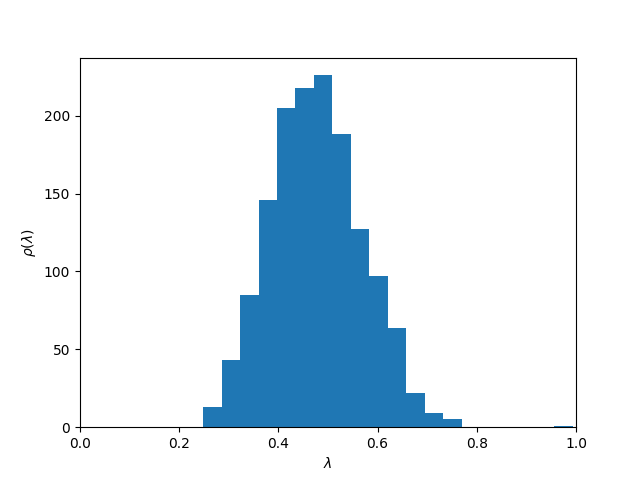
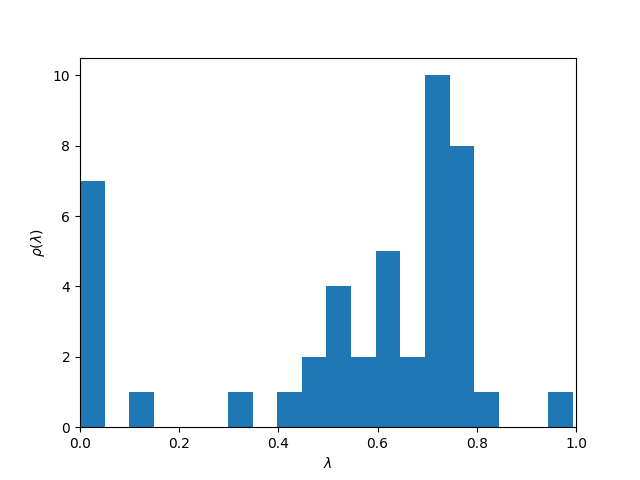
Storage capacity

diff --git a/final_sparse_matrices.py b/final_sparse_matrices.py
@@ -56,6 +56,20 @@ sig_i_k_plot = np.zeros((nSnap, N*(S+1)))
 analyseTime = False
 analyseDivergence = False
 
+# Plot parameters
+lamb = []
+tTrans = []
+retrieved_saved = []
+max_m_mu_saved = []
+max2_m_mu_saved = []
+outsider_saved = []
+indTrans = 0
+cpt_idle = 0
+d12 = 0
+l = tSim
+eta = 0
+ind_max_prev = -1
+
 for iT in tqdm(range(nT)):
     iteration.iterate(J_i_j_k_l, delta__ksi_i_mu__k, tS[iT], analyseTime,
                       analyseDivergence, sig_i_k, r_i_k, r_i_S_A,
@@ -67,6 +81,34 @@ for iT in tqdm(range(nT)):
     theta_i_k_plot[iT, :] = theta_i_k
     sig_i_k_plot[iT, :] = sig_i_k
 
+    if tS[iT] > t_0 + tau:
+        ind_max = np.argmax(m_mu)
+        max_m_mu = m_mu[ind_max]
+        m_mu[ind_max] = - np.inf
+        outsider = np.argmax(m_mu)
+        max2_m_mu = m_mu[outsider]
+
+        d12 += dt*(max_m_mu- max2_m_mu)
+
+        if ind_max != ind_max_prev:
+            tTrans.append(tS[iT])
+            lamb.append(max_m_mu)
+            retrieved_saved.append(ind_max)
+            outsider_saved.append(outsider)
+            max_m_mu_saved.append(max_m_mu)
+            max2_m_mu_saved.append(max2_m_mu)
+
+            indTrans += 1
+            cpt_idle = 0
+            eta  = 1
+
+        if max_m_mu < .01:
+            cpt_idle += 1
+            if cpt_idle > nT/10 and nT >= 1000:
+                print("latchingDied")
+                l = tS[iT]
+                break
+        ind_max_prev = ind_max
 
 # Plot
 plt.close('all')
@@ -110,6 +152,7 @@ ax5.set_title("sig_i_k")
 ax6.plot("sig_i_S")
 plt.figure(2)
 for mu in range(p):
+# for mu in retrieved_saved[:]:
     plt.plot(tS, m_mu_plot[:, mu])
 plt.title('overlap')
 

diff --git a/analyse_correlations.py b/analyse_correlations.py
@@ -13,7 +13,7 @@ import numpy.random as rd
 from tqdm import tqdm
 
 # Local modules
-from parameters import get_parameters
+from parameters import get_parameters, get_f_russo
 import patterns
 import correlations
 import initialisation
@@ -28,10 +28,11 @@ if os.environ.get('DISPLAY', '') == '':
 dt, tSim, N, S, p, num_fact, p_fact, dzeta, a_pf, eps, cm, a, U, T, w, \
     tau_1, tau_2, tau_3_A, tau_3_B, g_A, beta, g, t_0, tau, cue_ind, \
     random_seed = get_parameters()
+f_russo = get_f_russo()
 
 rd.seed(random_seed)
 
-ksi_i_mu, delta__ksi_i_mu__k = patterns.get_vijay()
+ksi_i_mu, delta__ksi_i_mu__k = patterns.get_vijay(f_russo)
 
 print('Cross correlation computation')
 C1C2C0 = correlations.cross_correlations(ksi_i_mu)

diff --git a/parameters.py b/parameters.py
@@ -8,7 +8,7 @@ from and their behavior
 
 # Integration
 dt = 0.5
-tSim = 25000
+tSim = 2000
 # objective : tSim = 50000
 
 # Network
@@ -21,13 +21,13 @@ p = 50
 num_fact = 200
 p_fact = 50       #0.25*200
 dzeta = 0.02
-a_pf = 0.25
-eps = 0.001
+a_pf = 0.00
+eps = 1.
 
 # Building network
-cm = 25
+cm = 40
 a = 0.25
-f_russo = 0.8
+f_russo = 0.01
 
 # Network dynamics
 U = 0.4
@@ -45,10 +45,10 @@ g_A = 1
 beta = 11
 
 # Cue
-g = 50
+g = 12.5
 t_0 = 50
 tau = 1
-cue_ind = 1
+cue_ind = 4
 
 random_seed = 2021
 

diff --git a/lambda_analysis_sparse_matrices.py b/lambda_analysis_sparse_matrices.py
@@ -103,6 +103,8 @@ for iT in tqdm(range(nT)):
         ind_max_prev = ind_max
 Q = d12*l*eta
 
+
+
 lamb = np.array(lamb)
 gap = np.logical_and(lamb > 0.25, lamb < 0.55)
 C1C2C0 = correlations.cross_correlations(ksi_i_mu)
